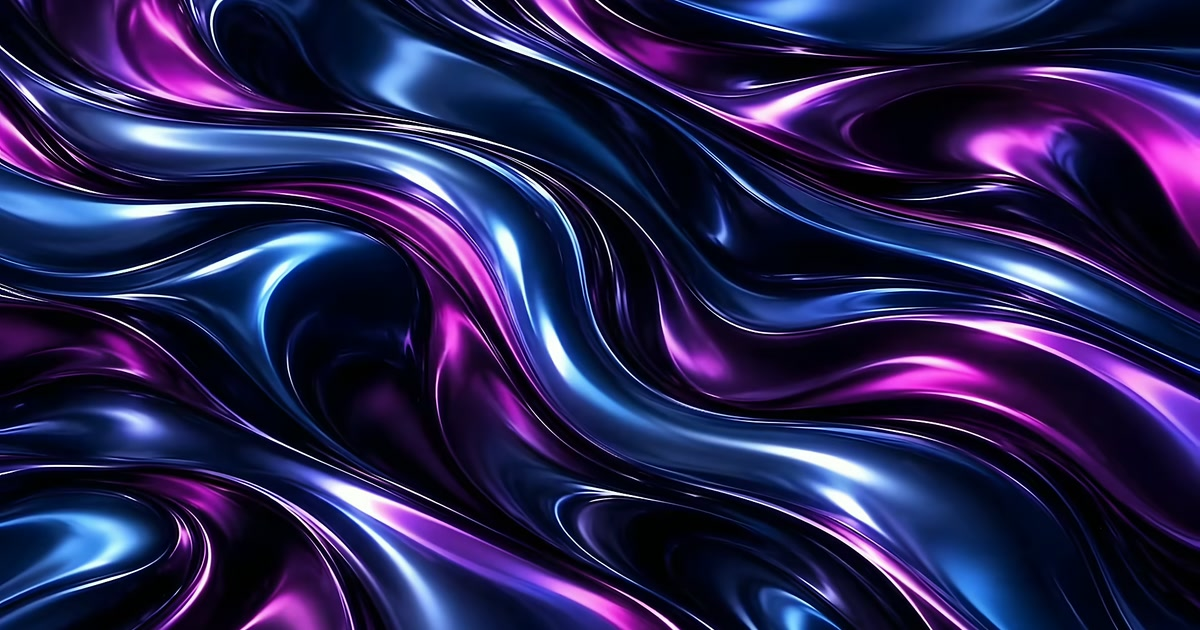
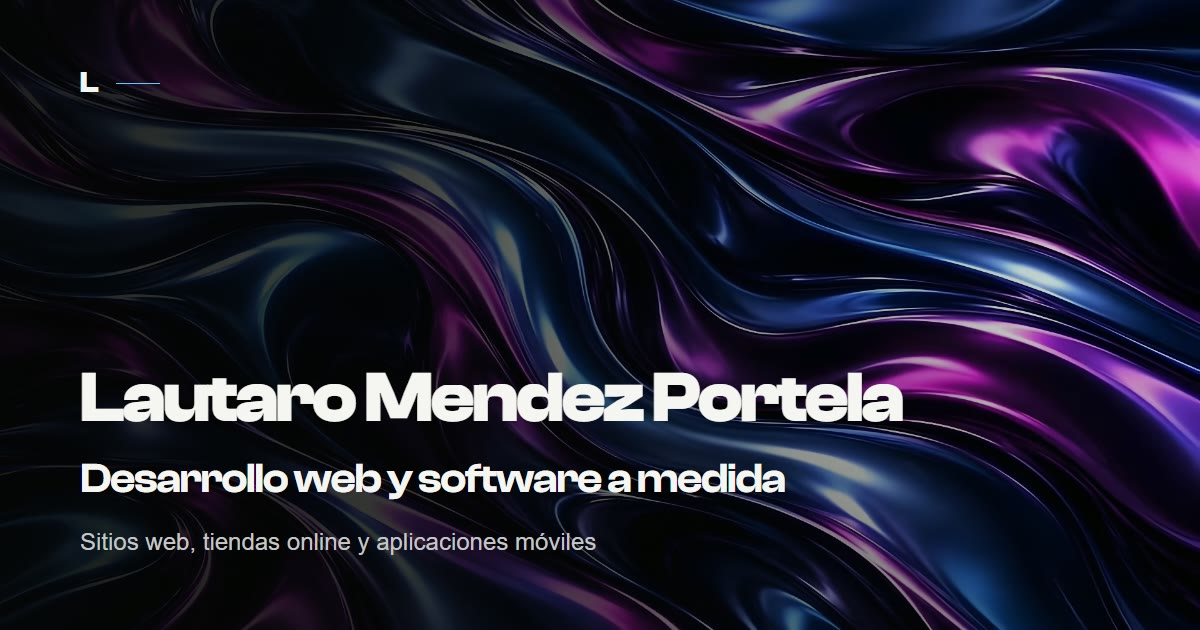
feat: open graph preview

diff --git a/index.html b/index.html
@@ -64,7 +64,7 @@
     <meta property="og:image:height" content="630" />
     <meta
       property="og:image:alt"
-      content="Composición abstracta azul y violeta del portfolio de Lautaro Méndez Portela"
+      content="Lautaro Méndez Portela, desarrollo web y software a medida, sobre el fondo abstracto azul y violeta del portfolio"
     />
 
     <meta name="twitter:card" content="summary_large_image" />
@@ -83,7 +83,7 @@
     />
     <meta
       name="twitter:image:alt"
-      content="Composición abstracta azul y violeta del portfolio de Lautaro Méndez Portela"
+      content="Lautaro Méndez Portela, desarrollo web y software a medida, sobre el fondo abstracto azul y violeta del portfolio"
     />
 
     <meta name="theme-color" content="#050505" />

diff --git a/handoff.md b/handoff.md
@@ -2,34 +2,34 @@
 
 ## Estado actual
 
-Datos estructurados Schema.org incorporados localmente. No se hizo commit, push ni deploy.
+Imagen Open Graph definitiva corregida localmente: el nombre dentro de la pieza ahora dice «Lautaro Mendez Portela». Los datos estructurados Schema.org de la tarea anterior permanecen incorporados. No se hizo commit, push ni deploy.
 
-## Tarea actual: Person y WebSite
+## Tarea actual: imagen Open Graph
 
-- Se agregó un único `<script type="application/ld+json">` dentro del `head` de `index.html`.
-- El `@graph` contiene exclusivamente `Person` y `WebSite`.
-- Identificadores estables: `https://lautaromendezportela.com/#person` y `https://lautaromendezportela.com/#website`.
-- `WebSite.publisher` referencia el `@id` de `Person` para mantener una sola identidad conectada, sin duplicar datos.
-- `sameAs` usa los enlaces de LinkedIn y GitHub ya visibles en el footer.
-- `homeLocation` se modeló como `Place` con `La Plata, Argentina`, sin dirección ni datos comerciales inventados.
-- No se agregaron `LocalBusiness`, `ProfessionalService`, `SearchAction`, dependencias ni JavaScript ejecutable.
-- Las optimizaciones de rendimiento del commit anterior permanecen sin cambios.
+- Se reemplazó `assets/social/og-portfolio.jpg` por una pieza de 1200 × 630 basada exclusivamente en `assets/hero/hero-poster.avif`, sin modificar el original.
+- La composición se generó mediante HTML/CSS y una captura headless de Chrome. Se usaron los WOFF2 oficiales de Fontshare para Clash Display 700 (nombre/monograma) y 600 (título).
+- La hoja combinada actual de Fontshare no entrega General Sans; la descripción replica la cadena efectiva del sitio: `"General Sans", "Helvetica Neue", Arial, sans-serif`, que cae en Arial en este entorno Windows.
+- El fondo conserva `object-fit: cover` y `object-position: center`; sólo se añadieron overlays negros semitransparentes para contraste.
+- Se mantuvo la URL existente de Open Graph y Twitter. Sólo se actualizaron `og:image:alt` y `twitter:image:alt`.
+- `.vercelignore` ya permite publicar `assets/`; no requirió cambios.
+- A pedido del usuario se eliminó sólo la tilde visible de «Méndez» en la imagen, reconstruyendo el pequeño fondo bajo el acento; la composición y el resto del texto se conservaron.
 
 ## Archivos modificados
 
+- `assets/social/og-portfolio.jpg`
 - `index.html`
-- `HANDOFF.md`
+- `handoff.md`
 
 ## Validación
 
-- Validación sintáctica local: JSON parseable, un solo bloque JSON-LD, `@context` correcto y exactamente dos nodos (`Person` y `WebSite`).
-- Comprobación local de relaciones: `WebSite.publisher.@id` coincide con `Person.@id`; todas las URLs del grafo son HTTPS.
-- Comprobación en navegador local: el bloque está dentro del DOM, el canonical sigue siendo `https://lautaromendezportela.com/` y no hubo errores ni advertencias de consola.
-- Schema.org Validator ejecutado con el fragmento implementado: 0 errores y 0 advertencias; reconoció `WebSite` y la entidad `Person` vinculada.
-- `git diff --check` pasó.
+- JPG válido, 1200 × 630, `yuvj420p`, 105.437 bytes (aprox. 103 KiB).
+- Inspección visual a tamaño completo y reducción Lanczos a 400 × 210: textos legibles, sin recortes ni distorsión.
+- Nombre corregido a «Lautaro Mendez Portela» y título/descripción conservados; no se incluyó “en La Plata”.
+- Metadatos verificados: URL compartida, `image/jpeg`, ancho 1200 y alto 630.
+- No se modificaron CSS, JavaScript funcional, Hero, animaciones, secciones, sitemap ni robots.
+- Detector Impeccable ejecutado una vez; sólo señaló patrones preexistentes en la página fuera del alcance de esta tarea.
 
 ## Pendiente
 
 - Publicar únicamente después de la aprobación del usuario.
-- Después del despliegue, validar la URL pública en Schema.org Validator y comprobar la indexación en Google Search Console.
-- `Person` y `WebSite` describen las entidades, pero no garantizan resultados enriquecidos ni mejoras de posicionamiento.
+- Después del despliegue, comprobar la imagen pública y refrescar las vistas previas de WhatsApp y LinkedIn, teniendo en cuenta sus cachés.
